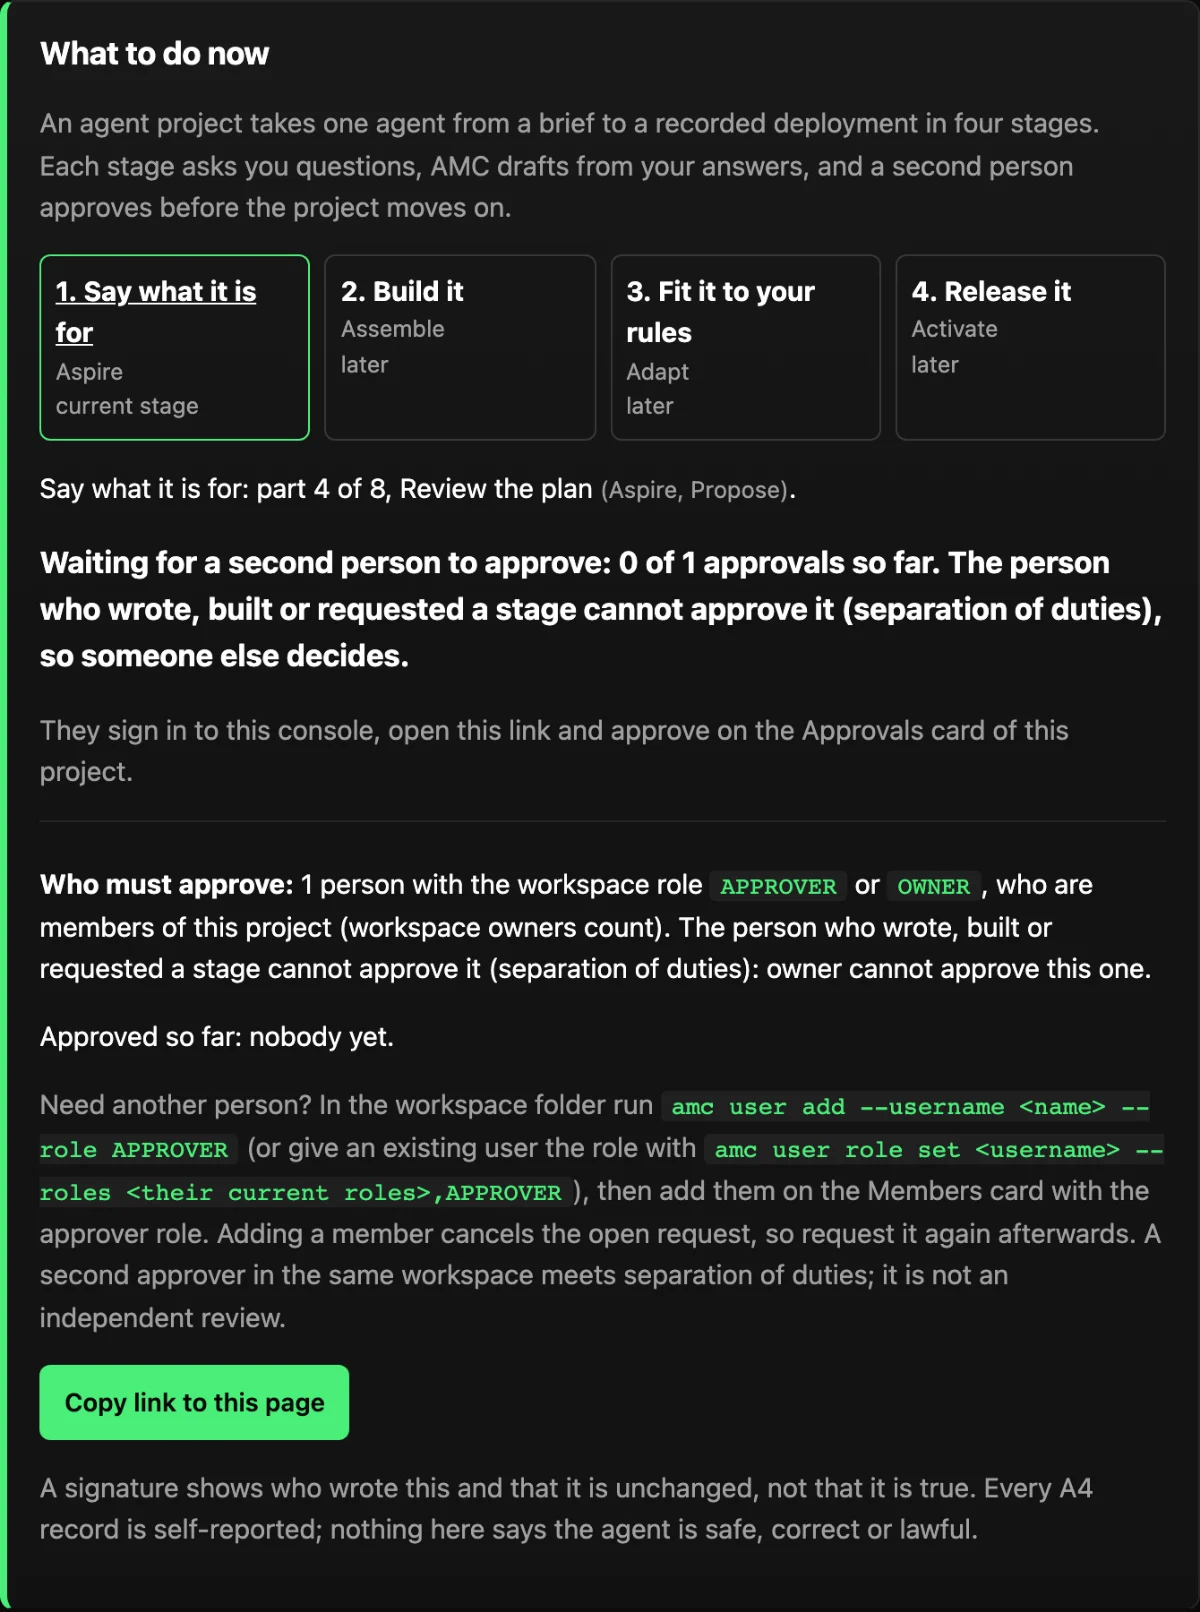
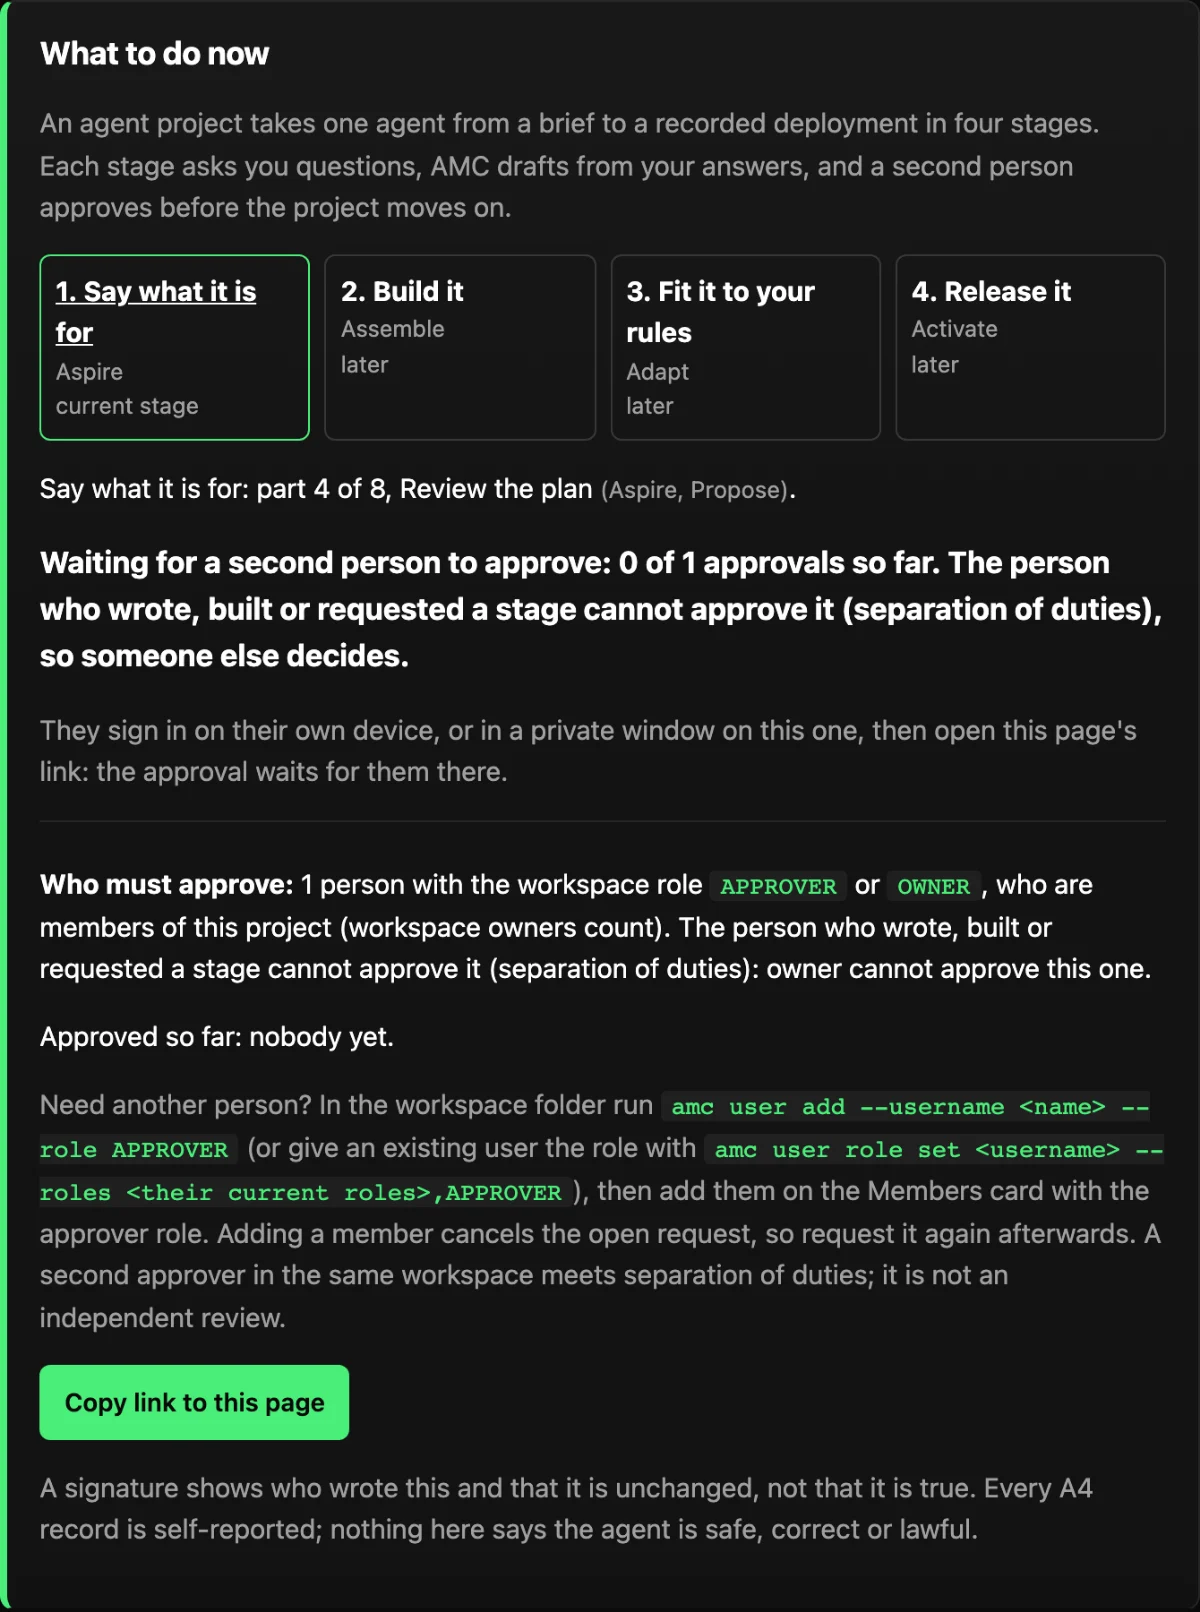
fix(website): re-take the console pictures; capture script follows the current A4 panel
capture-site-shots stopped at step 4: the panel now asks for a second person with an "Add a person" form, and the
acknowledgement reason is the Approvals card's reason field. Re-taken from a fresh scratch Studio of this build:
a4-start, a4-project and a4-approval changed (console-home byte-identical); image heights updated on index and a4.

Changed region(s): [[0.0308, 0.4342, 0.9558, 0.4963]]

diff --git a/website/index.html b/website/index.html
@@ -116,14 +116,14 @@
               <h3>Say what the agent is for</h3>
               <p>Answer questions about the problem, who the agent serves, what success looks like and what it must never do. Start from your Industry Pack and AMC fills in the sector, a risk level and the rules to check, for you to correct.</p>
               <p class="who"><strong>Who signs off</strong> One person who did not write the brief.</p>
-              <figure class="shot"><img src="img/a4-start.webp" width="1200" height="1522" loading="lazy" decoding="async" alt="The Build an agent for your industry card on the Compass Console home: the Digital Health Record pack chosen as the industry, the question Who approves each step? with A second person selected and Just me, as practice offered, a project name, and a Start building button."><figcaption>Starting a project from the Compass Console home.</figcaption></figure>
+              <figure class="shot"><img src="img/a4-start.webp" width="1200" height="1607" loading="lazy" decoding="async" alt="The Build an agent for your industry card on the Compass Console home: the Digital Health Record pack chosen as the industry, the question Who approves each step? with A second person selected and Just me, as practice offered, a project name, and a Start building button."><figcaption>Starting a project from the Compass Console home.</figcaption></figure>
             </li>
             <li class="step" data-step="2">
               <p class="step-n"><span class="step-num">2</span> Assemble</p>
               <h3>Build it</h3>
               <p>Say what the agent may do on its own and what needs a person's yes, and choose its tools. AMC builds it in one closed session and records what ran. On the built-in stand-in model the record says so: the tools were seen working, the agent's behaviour was not judged.</p>
               <p class="who"><strong>Who signs off</strong> Two people, neither of whom built it.</p>
-              <figure class="shot"><img src="img/a4-project.webp" width="1200" height="1065" loading="lazy" decoding="async" alt="A practice project page in the Compass Console: a note that the owner may approve their own work, then What to do now with the four stages, the current part, and one button, Answer the first question."><figcaption>A project page shows one thing to do at a time.</figcaption></figure>
+              <figure class="shot"><img src="img/a4-project.webp" width="1200" height="1146" loading="lazy" decoding="async" alt="A practice project page in the Compass Console: a note that the owner may approve their own work, then What to do now with the four stages, the current part, and one button, Answer the first question."><figcaption>A project page shows one thing to do at a time.</figcaption></figure>
             </li>
             <li class="step" data-step="3">
               <p class="step-n"><span class="step-num">3</span> Adapt</p>

diff --git a/website/a4.html b/website/a4.html
@@ -68,7 +68,7 @@
             <a href="#try" class="btn btn-ghost">How to try it</a>
           </div>
         </div>
-        <figure class="shot"><img src="img/a4-start.webp" width="1200" height="1522" decoding="async" alt="The Build an agent for your industry card on the Compass Console home: the Digital Health Record pack chosen as the industry, the question Who approves each step? with A second person selected and Just me, as practice offered, a project name, and a Start building button."><figcaption>Starting a project on the Compass Console home. You choose the industry and who approves each step.</figcaption></figure>
+        <figure class="shot"><img src="img/a4-start.webp" width="1200" height="1607" decoding="async" alt="The Build an agent for your industry card on the Compass Console home: the Digital Health Record pack chosen as the industry, the question Who approves each step? with A second person selected and Just me, as practice offered, a project name, and a Start building button."><figcaption>Starting a project on the Compass Console home. You choose the industry and who approves each step.</figcaption></figure>
       </div>
       <div class="wrap">
         <dl class="status">
@@ -248,7 +248,7 @@
               <li>Every empty answer shows an example. <strong>Use an example</strong> fills the empty answers with sample text marked (sample), for you to change before you save.</li>
               <li>When a step needs approval, the page says how many people must approve, which role they need, who may not approve, and who has approved so far.</li>
             </ol>
-            <figure class="shot"><img src="img/a4-project.webp" width="1200" height="1065" loading="lazy" decoding="async" alt="A practice project page in the Compass Console: a note that the owner may approve their own work, then What to do now with the four stages, the current part, and one button, Answer the first question."><figcaption>A practice project's page: one thing to do at a time.</figcaption></figure>
+            <figure class="shot"><img src="img/a4-project.webp" width="1200" height="1146" loading="lazy" decoding="async" alt="A practice project page in the Compass Console: a note that the owner may approve their own work, then What to do now with the four stages, the current part, and one button, Answer the first question."><figcaption>A practice project's page: one thing to do at a time.</figcaption></figure>
           </div>
         </div>
 
